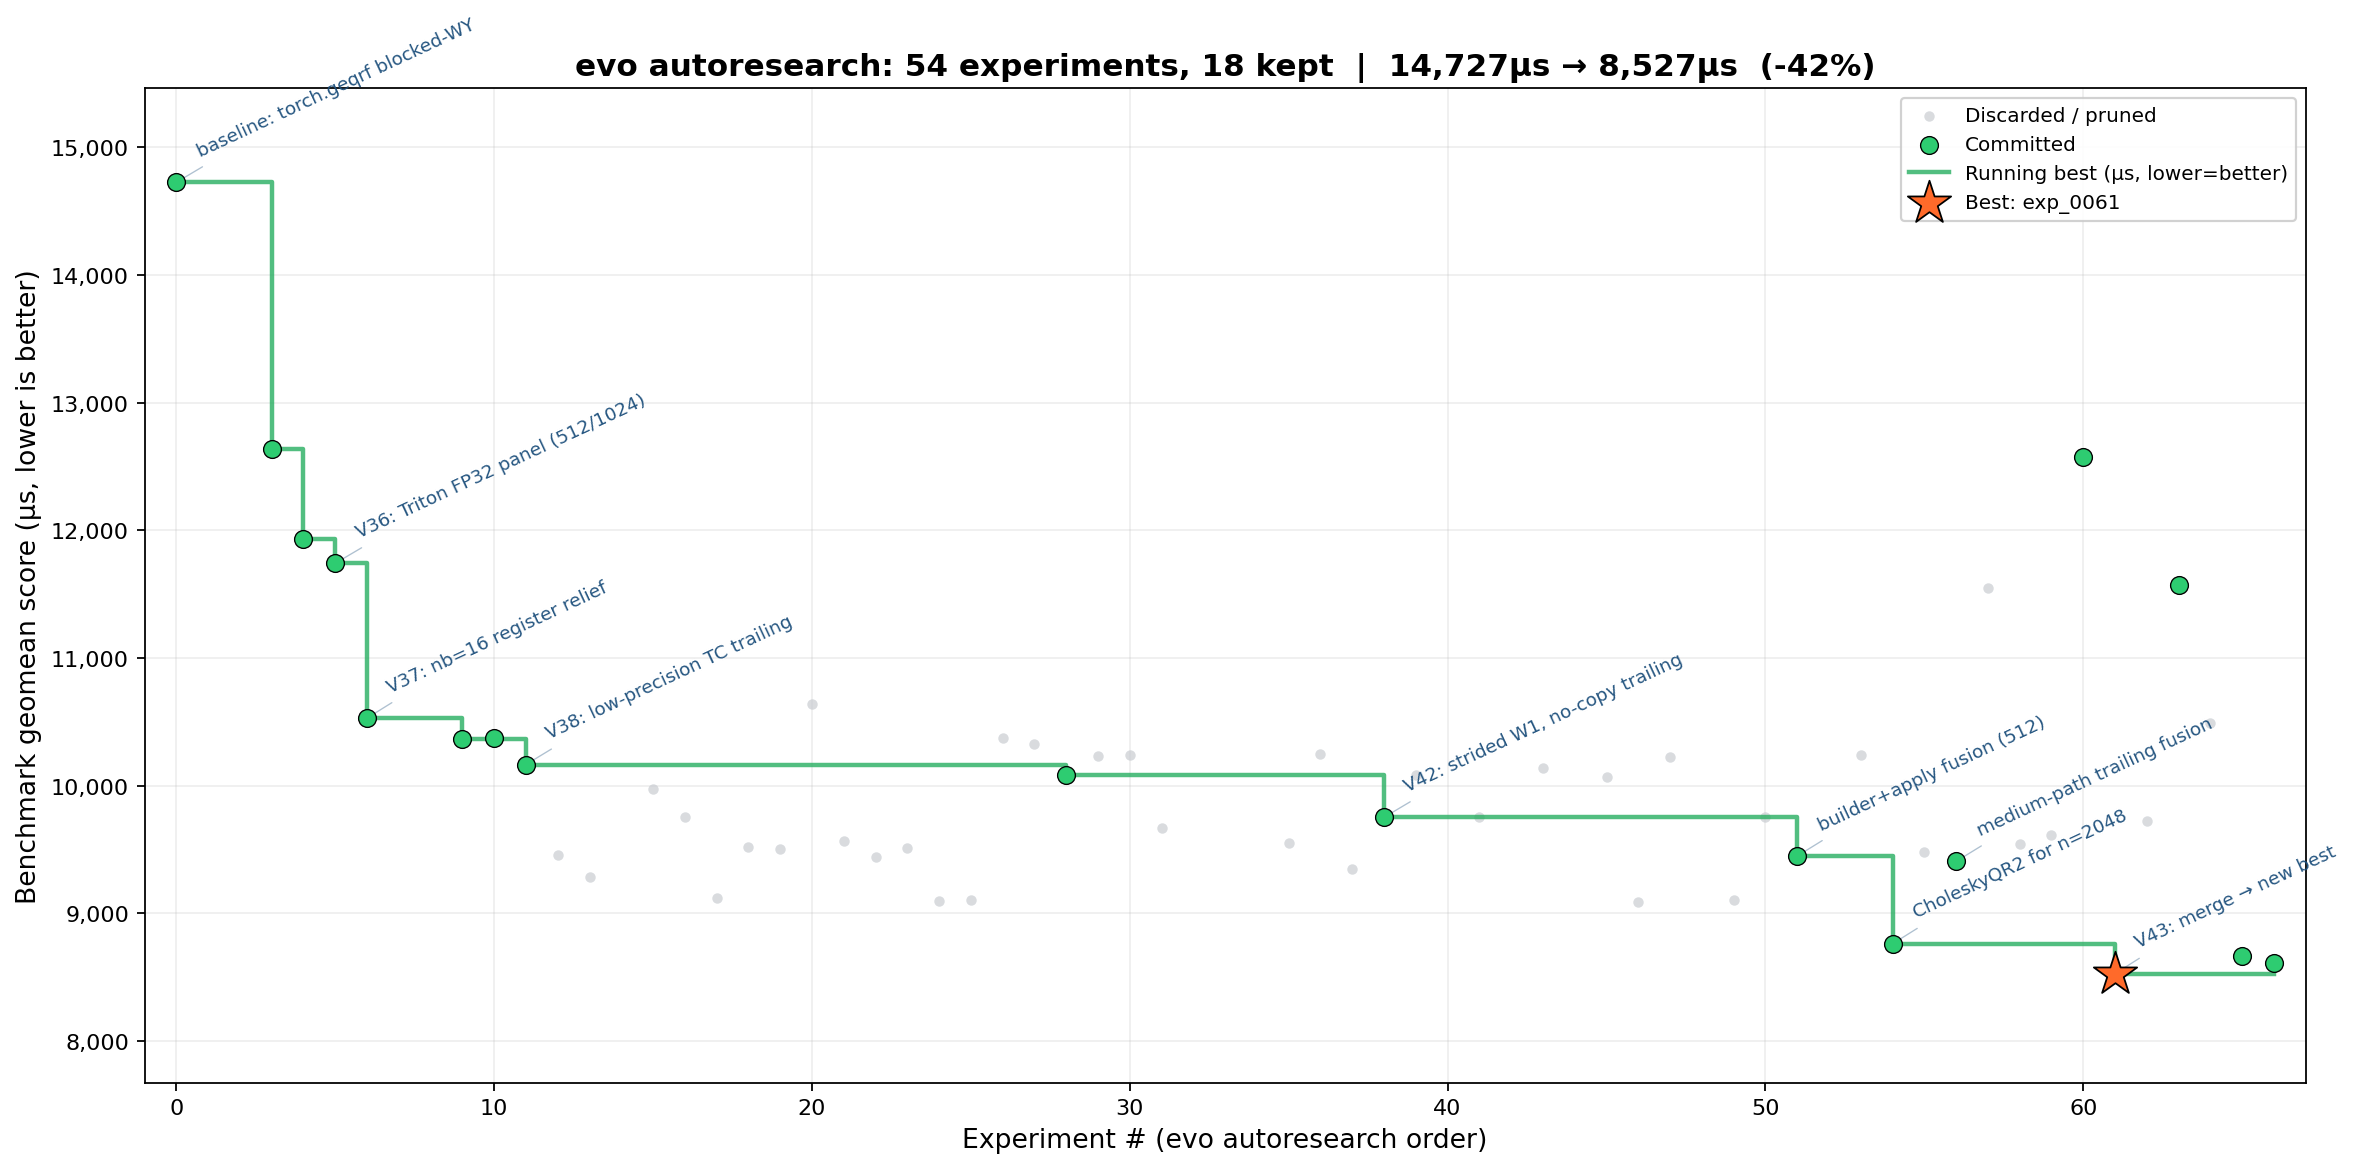
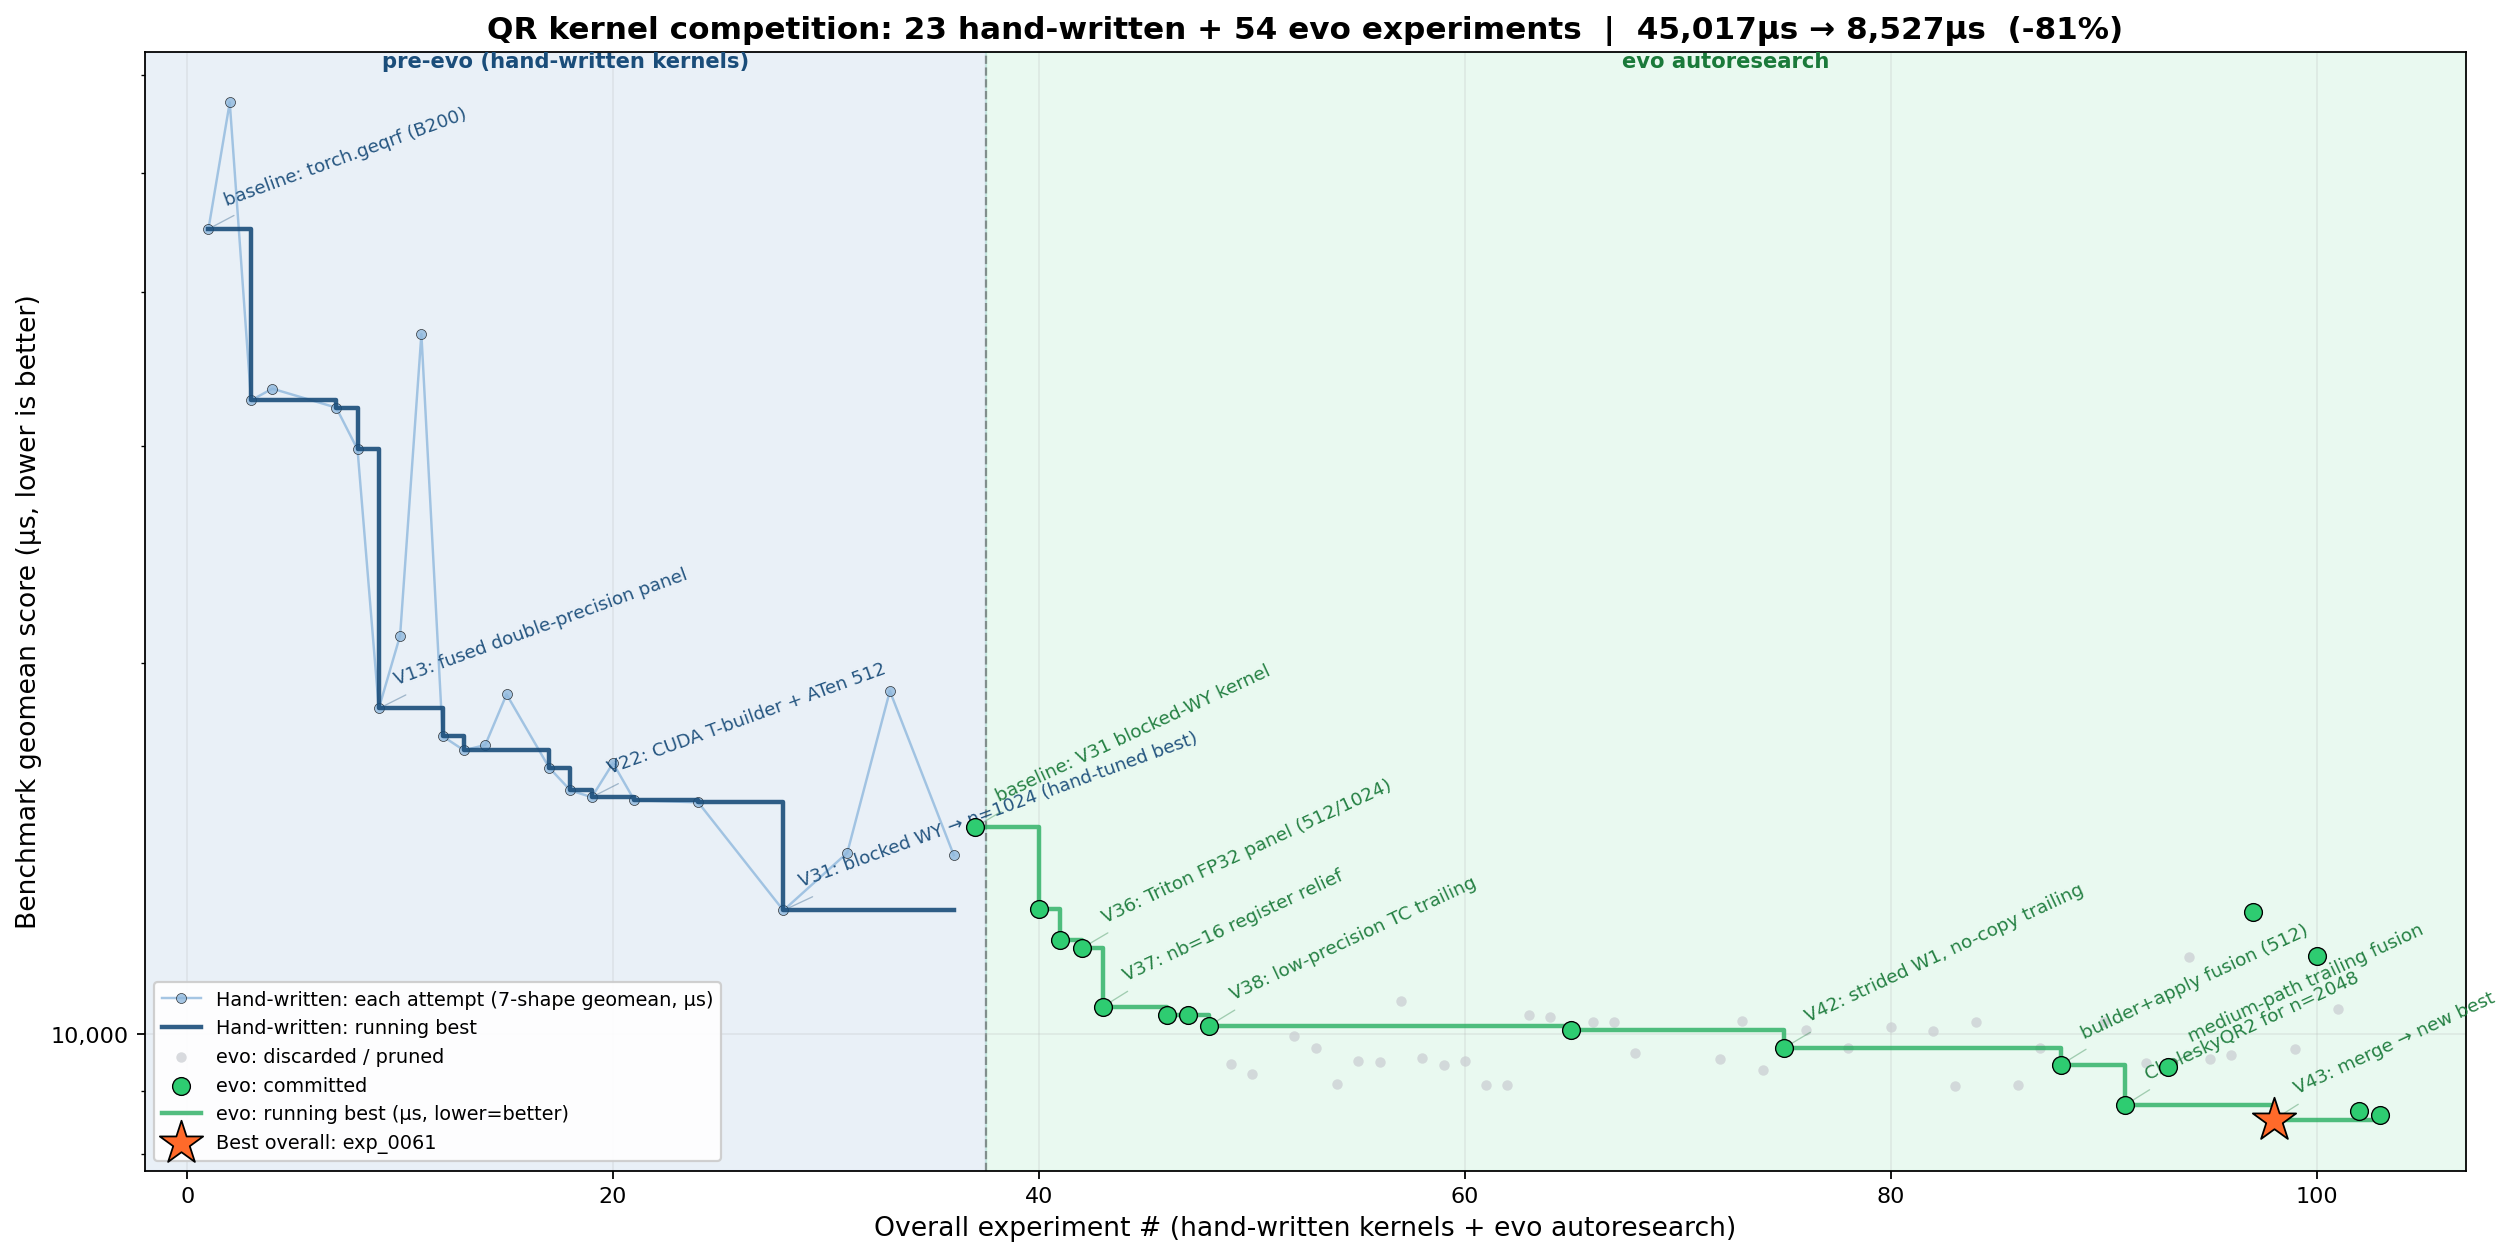
docs: show hand-written + evo autoresearch stages on one progress chart
Extend the chart's x-axis to the overall experiment count across the whole competition, shade pre-evo (hand-written kernels) vs evo autoresearch backgrounds, and plot the hand-written stage's own real 7-shape geomean (transcribed from experiment_plan.md) instead of leaving that half of the timeline empty. Log-scale y-axis since the two stages span very different score ranges.

diff --git a/README.md b/README.md
@@ -26,9 +26,11 @@ We worked this in two stages:
 
 ![evo autoresearch progress chart](docs/assets/evo_progress_chart.png)
 
-*Green dots = kept (new best at that point in time), grey = tried and discarded,
-orange star = best result found. Generated straight from the evo run's own
-experiment graph (`.evo/run_0000`), not a mockup.*
+*Blue = hand-written kernels (V0→V31), green = evo autoresearch (V31→V43).
+Dots = individual attempts, step lines = running best, orange star = best
+result found. Both halves are computed from real measurements — the
+hand-written side from `experiment_plan.md`'s per-shape timings, the evo side
+straight from the run's own experiment graph (`.evo/run_0000`) — not a mockup.*
 
 ## Notes on how we made progress
 